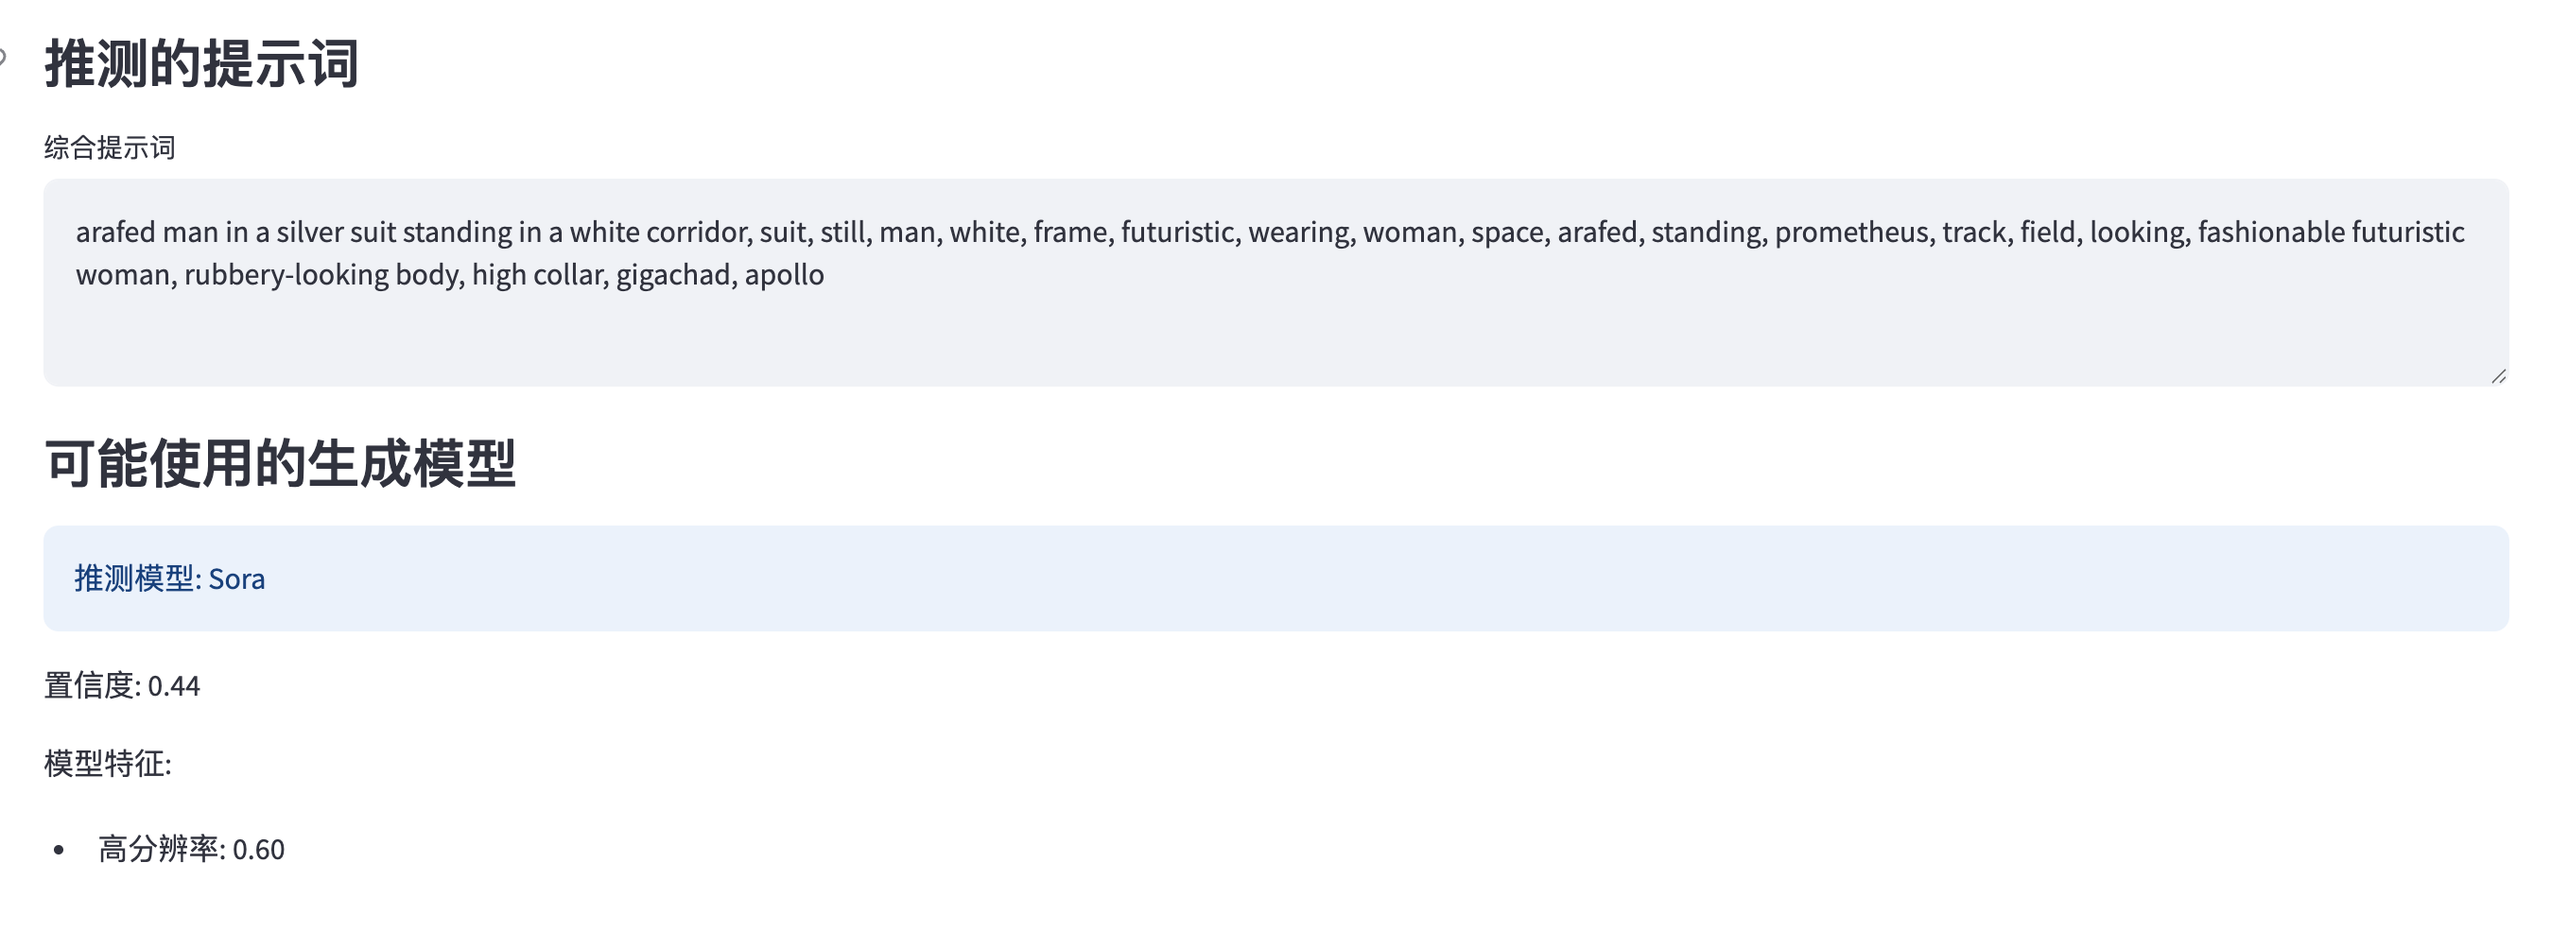
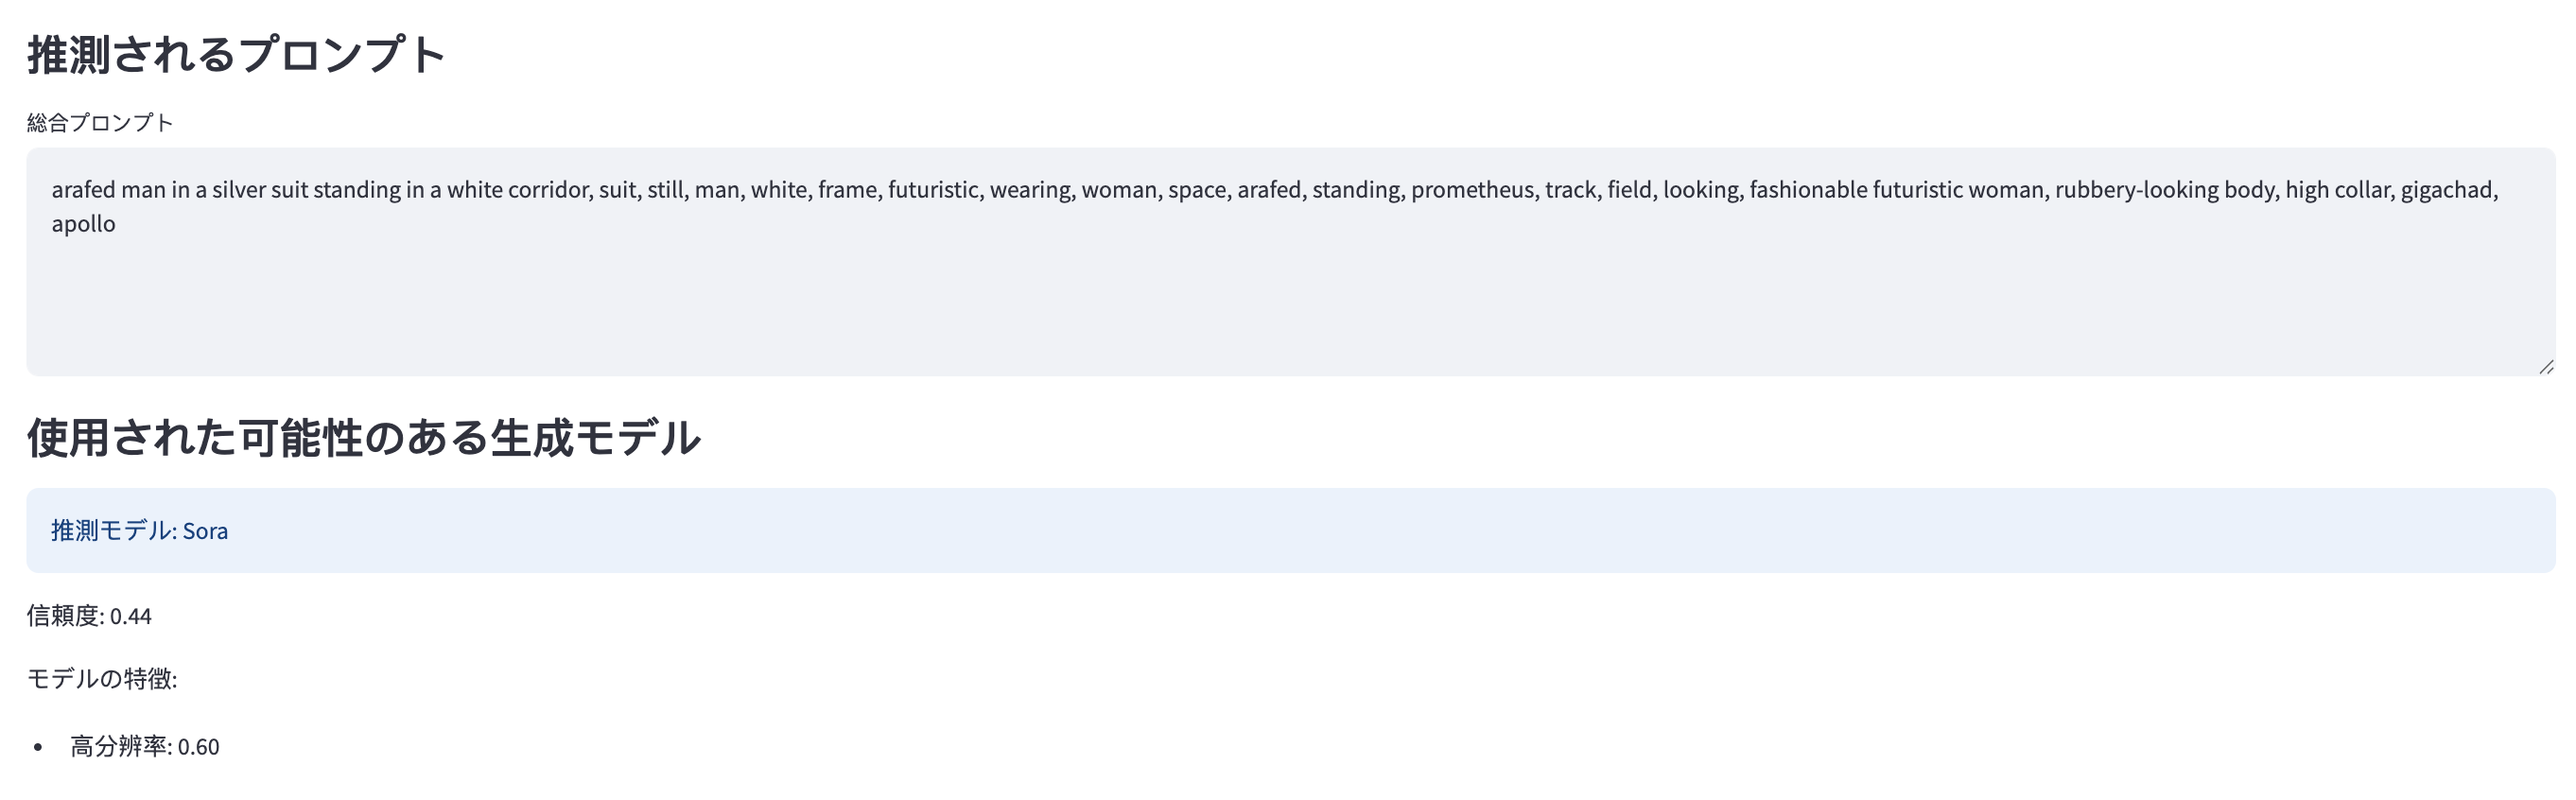
readme_rewrite

diff --git a/app.py b/app.py
@@ -11,10 +11,10 @@ from src.model_detector import guess_generation_model
 
 st.set_page_config(page_title="视频Prompt分析器", layout="wide")
 
-st.title("AI生成视频Prompt分析器")
-st.write("上传AI生成的视频，分析可能使用的提示词和生成模型")
+st.title("AI生成動画プロンプト解析ツール")
+st.write("AI生成動画をアップロードし、使用された可能性のあるプロンプトや生成モデルを解析する")
 
-uploaded_file = st.file_uploader("上传视频文件", type=["mp4", "avi", "mov", "mkv"])
+uploaded_file = st.file_uploader("動画ファイルをアップロードしてください。", type=["mp4", "avi", "mov", "mkv"])
 
 if uploaded_file is not None:
     # 保存上传的视频到临时文件
@@ -25,7 +25,7 @@ if uploaded_file is not None:
     # 显示视频
     st.video(video_path)
     
-    with st.spinner('正在处理视频...'):
+    with st.spinner('動画を処理中です。お待ちください。...'):
         # 提取帧
         frames, timestamps = extract_frames(video_path, num_frames=5)
         
@@ -39,26 +39,26 @@ if uploaded_file is not None:
         model_guess = guess_generation_model(frames, combined_prompt)
     
     # 显示结果
-    st.header("分析结果")
+    st.header("動画の分析結果")
     
     # 显示关键帧
-    st.subheader("关键帧")
+    st.subheader("キーフレーム")
     cols = st.columns(len(frames))
     for i, (frame, timestamp, prompt) in enumerate(zip(frames, timestamps, frame_prompts)):
         with cols[i]:
-            st.image(frame, caption=f"时间: {timestamp:.2f}秒")
-            with st.expander("查看描述"):
+            st.image(frame, caption=f"時間: {timestamp:.2f}秒")
+            with st.expander("説明を見る"):
                 st.write(prompt)
     
     # 显示推测的提示词
-    st.subheader("推测的提示词")
-    st.text_area("综合提示词", combined_prompt, height=150)
+    st.subheader("推測されるプロンプト")
+    st.text_area("総合プロンプト", combined_prompt, height=150)
     
     # 显示猜测的生成模型
-    st.subheader("可能使用的生成模型")
-    st.info(f"推测模型: {model_guess['model']}")
-    st.write(f"置信度: {model_guess['confidence']:.2f}")
-    st.write("模型特征:")
+    st.subheader("使用された可能性のある生成モデル")
+    st.info(f"推測モデル: {model_guess['model']}")
+    st.write(f"信頼度: {model_guess['confidence']:.2f}")
+    st.write("モデルの特徴:")
     for feature, score in model_guess['features'].items():
         st.write(f"- {feature}: {score:.2f}")
     
